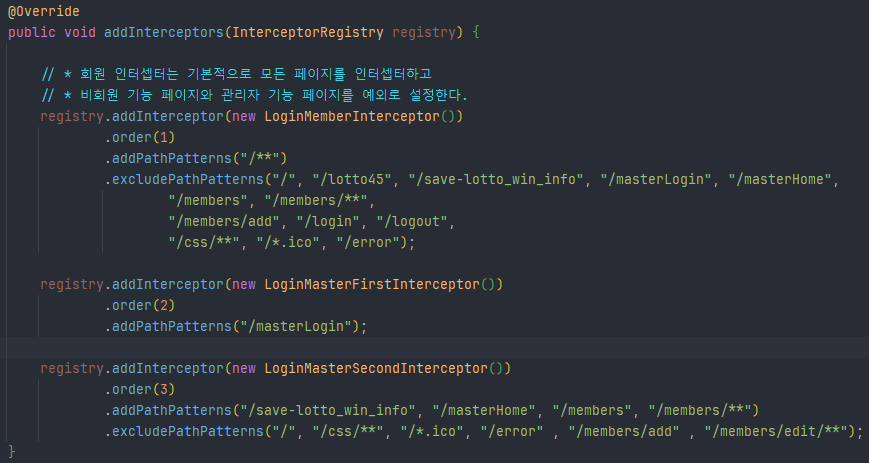
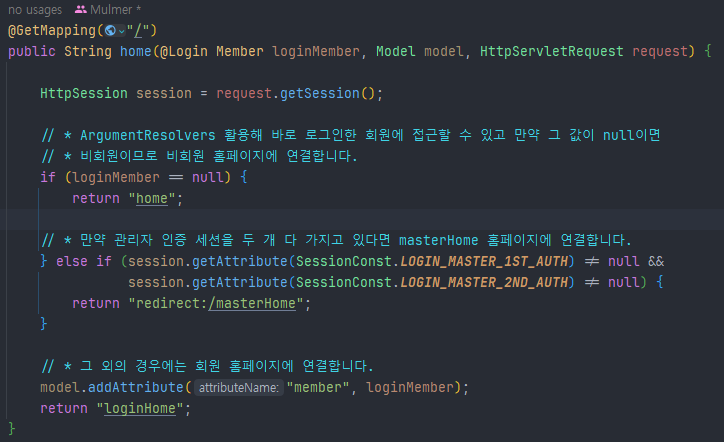
Readme.md를 위한 주석 추가와 이미지 추가3

diff --git a/src/main/java/lotto45/lotto45/controller/HomeController.java b/src/main/java/lotto45/lotto45/controller/HomeController.java
@@ -17,13 +17,18 @@ public class HomeController {
 
         HttpSession session = request.getSession();
 
+        // * ArgumentResolvers 활용해 바로 로그인한 회원에 접근할 수 있고 만약 그 값이 null이면
+        // * 비회원이므로 비회원 홈페이지에 연결합니다.
         if (loginMember == null) {
             return "home";
+
+        // * 만약 관리자 인증 세션을 두 개 다 가지고 있다면 masterHome 홈페이지에 연결합니다.
         } else if (session.getAttribute(SessionConst.LOGIN_MASTER_1ST_AUTH) != null &&
                    session.getAttribute(SessionConst.LOGIN_MASTER_2ND_AUTH) != null) {
             return "redirect:/masterHome";
         }
 
+        // * 그 외의 경우에는 회원 홈페이지에 연결합니다.
         model.addAttribute("member", loginMember);
         return "loginHome";
     }
